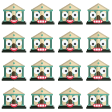
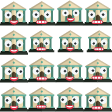
fantasmas agrandados, archivo cambiado de nombre

diff --git a/pacman/pacman.js b/pacman/pacman.js
@@ -1964,6 +1964,10 @@ LifeDisplay.prototype = new Sprite({
         this.h = gridSize;
     },
 
+    getLives: function () {
+        return this.lives;
+    },
+
     repaint: function (g) {
         g.save();
 
@@ -2665,6 +2669,7 @@ function respawn(starting) {
         });
         resources.playSound('intro');
     } else {
+
         start();
     }
 }
@@ -2775,12 +2780,20 @@ function processGhostCollisions(pacman, ghosts) {
 
 function lifeLost() {
     if (--lives) {
+        console.log(lives);
         respawn();
     } else {
         // game over
+        lives = 3;
         var prevBest = getPref('highscore') || 0;
         setPref('highscore', Math.max(prevBest, highscore));
         mode = MODE_FINISHED;
+        debug('starting level %s', level);
+        insertObject('dots', new DotGroup());
+        insertObject('dotCounter', new DotCounter(level));
+        insertObject('bonusDisplay', new BonusDisplay(level));
+
+        respawn(true);
     }
 }
 
@@ -2981,7 +2994,6 @@ $(function () {
     }
 
     function init() {
-        // check for previous sound preference
         var soundsEnabled = getPref('sound.enabled') !== 'false';
         resources.enableSounds(soundsEnabled);
 

diff --git a/index.htm b/index.htm
@@ -88,7 +88,7 @@
         Gracias :)
         </p>
     </noscript>
-    <canvas class="pacman-canvas" width="548" height="676"></canvas>
+    <canvas class="pacman-canvas" width="448" height="576"></canvas>
 
 <div class="modal-footer">
     <a href="https://ahorabuenosaires.info/nuestras-cuatro-causas/#!" class="modal-action modal-close waves-effect waves-green btn-flat ">Volver</a>

diff --git a/Nuestras cuatro causas __ AHORA Buenos Aires_files/style.css b/Nuestras cuatro causas __ AHORA Buenos Aires_files/style.css
@@ -3,8 +3,6 @@
 
 .pacman-canvas {
     float: left;
-    width: 548; 
-    height: 676;
     border: 20px rgba(94,34,95,.85) solid;
     border-radius: 12px;
     background: #CCC;
